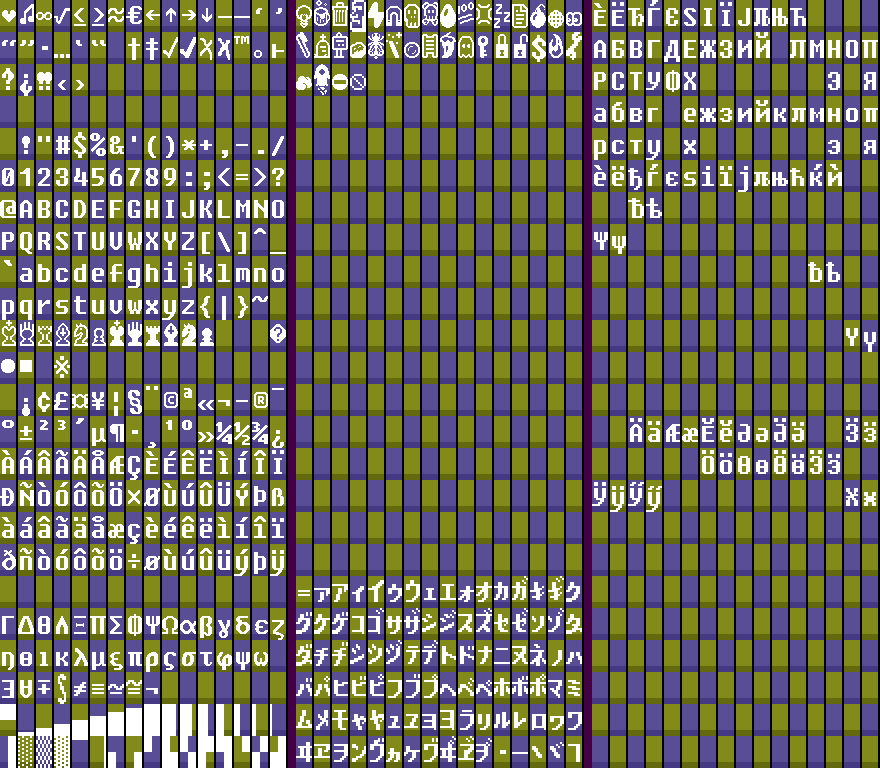
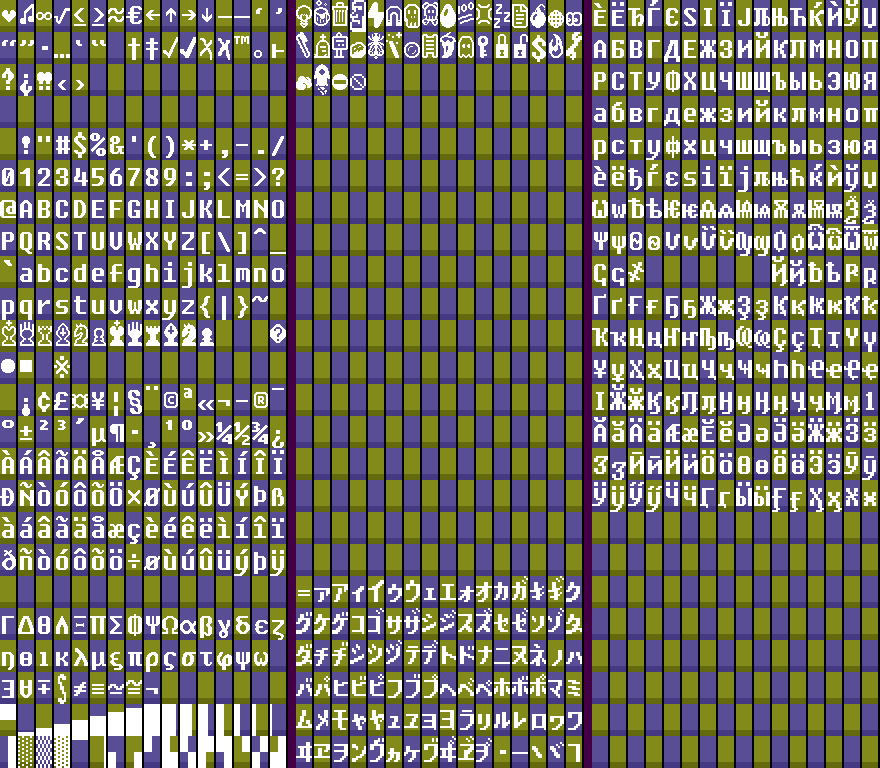
Finished off Cyrillic codepage (except for combining characters) in 1x. Did some easy AA in 2x, but it needs a serious pass of course
git-svn-id: file:///home/runner/work/tom7misc-sync-action/tom7misc-sync-action/upstream/trunk@5942 c7e11af0-4c7a-11f1-9edd-117cb6f09d55

diff --git a/bit7/merge2x.cc b/bit7/merge2x.cc
@@ -6,6 +6,7 @@
 
 #include "base/logging.h"
 #include "font-image.h"
+#include "util.h"
 
 using namespace std;
 
@@ -39,15 +40,28 @@ static bool NoGlyph(const FontImage &font, int codepoint) {
 }
 
 int main(int argc, char **argv) {
-  // TODO: Allow in place, generating backup, like normalize.
-  CHECK(argc == 4) <<
-    "Usage: ./merge2x.exe config1x.cfg config2x.cfg merged.png";
+  CHECK(argc == 3 || argc == 4) <<
+    "Usage: ./merge2x.exe config1x.cfg config2x.cfg [merged.png]\n"
+    "\n"
+    "Adds missing characters in the second font by upscaling\n"
+    "characters from the first. The second font must be exactly\n"
+    "twice the dimensions. If the merged.png is not provided,\n"
+    "back up the second file's font image and overwrite it.\n";
 
   const Config config1x = ParseAndCheckConfig(argv[1]);
   const Config config2x = ParseAndCheckConfig(argv[2]);
 
   FontImage font1x(config1x);
   FontImage font2x(config2x);
+
+  std::string dest = config2x.pngfile;
+  if (argc == 4) dest = argv[3];
+
+  if (Util::ExistsFile(dest)) {
+    std::string back = Util::BackupFile(dest);
+    printf("Moved old %s to %s\n", dest.c_str(),
+           back.c_str());
+  }
 
   CHECK(config1x.charbox_width * 2 == config2x.charbox_width);
   CHECK(config1x.charbox_height * 2 == config2x.charbox_height);
@@ -69,7 +83,7 @@ int main(int argc, char **argv) {
     }
   }
 
-  font2x.SaveImage(argv[3]);
+  font2x.SaveImage(dest);
 
   return 0;
 }

diff --git a/bit7/font-image.cc b/bit7/font-image.cc
@@ -735,6 +735,7 @@ REUSE_FOR = {
   {'X', 0x0425},
   {'a', 0x0430},
   {'e', 0x0435},
+  {'h', 0x04BB},
   {'o', 0x043E},
   {'p', 0x0440},
   {'c', 0x0441},
